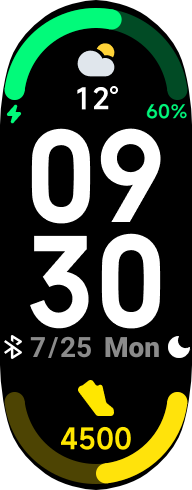
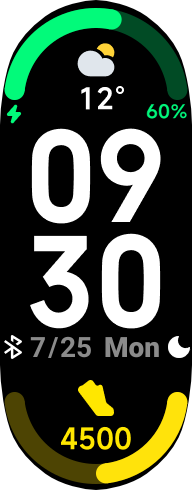
Tweak weather text position

Changed region(s): [[0.4062, 0.1531, 0.6562, 0.2449]]

diff --git a/src/variants.js b/src/variants.js
@@ -88,7 +88,7 @@ const EDIT_WIDGETS = {
       });
 
       hmUI.createWidget(hmUI.widget.TEXT_IMG, {
-        x: 48,
+        x: 53,
         y: y + 48,
         w: 96,
         h: 30,
